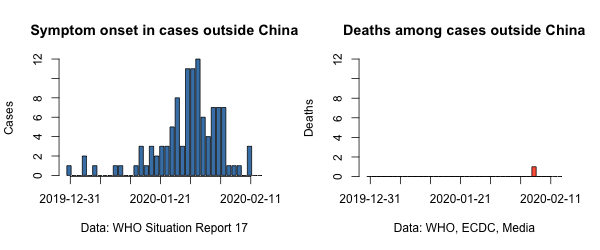
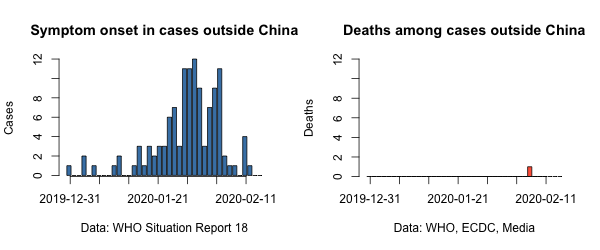
Update with WHO Situation Report 18

diff --git a/README.md b/README.md
@@ -1,10 +1,10 @@
 # Estimating case fatality ratio of 2019-nCoV from observed cases outside China
 
-*Updated report: 6 February 2020*
+*Updated report: 7 February 2020*
 
 Christian L. Althaus (christian.althaus@ispm.unibe.ch), Institute of Social and Preventive Medicine, University of Bern, Bern, Switzerland
 
-**Summary: We provide a preliminary estimate of the case fatality ratio (CFR) of 2019-nCoV at 2.0% (95% confidence interval: 0.1%-8.8%). While there remains considerable uncertainty around this estimate (n = 1!), CFR is arguably higher than what is typically observed for seasonal influenza, but lower than what was observed for SARS-CoV or MERS-CoV.**
+**Summary: We provide a preliminary estimate of the case fatality ratio (CFR) of 2019-nCoV at 1.7% (95% confidence interval: 0.1%-7.5%). While there remains considerable uncertainty around this estimate (n = 1!), CFR is arguably higher than what is typically observed for seasonal influenza, but lower than what was observed for SARS-CoV or MERS-CoV.**
 
 While the basic reproduction number of the 2019-nCoV epidemic in China [has been estimated](https://github.com/jriou/wcov) at 2.2 (90% high density interval: 1.4-3.8) (1,2), there remains considerable uncertainty regarding the case fatality ratio (CFR). To date, naive estimates of CFR from the reported numbers of confirmed cases and deaths are difficult to interpret due to possible biases in observed cases and the right-censoring of cases with respect to the time delay from illness onset to death (3).
 
@@ -12,7 +12,7 @@ We argue that reported 2019-nCoV cases and deaths outside China are less prone t
 
 ![](figures/ncov_cases.png)
 
-**Figure 1. Reported 2019-nCoV cases outside China by onset of symptoms and time of death.** The WHO [Novel Coronavirus(2019-nCoV) Situation Report - 17](https://www.who.int/emergencies/diseases/novel-coronavirus-2019/situation-reports) reports onset of symptoms for 109 cases (out of a total of 216 cases). The first death outside China has been reported by WHO, [ECDC](https://www.ecdc.europa.eu/en/novel-coronavirus-china) and [international media](https://www.theguardian.com/global-development/2020/feb/02/coronavirus-deaths-hong-kong-health-workers-to-strike-china-border-).
+**Figure 1. Reported 2019-nCoV cases outside China by onset of symptoms and time of death.** The WHO [Novel Coronavirus(2019-nCoV) Situation Report - 18](https://www.who.int/emergencies/diseases/novel-coronavirus-2019/situation-reports) reports onset of symptoms for 121 cases (out of a total of 216 cases). The first death outside China has been reported by WHO, [ECDC](https://www.ecdc.europa.eu/en/novel-coronavirus-china) and [international media](https://www.theguardian.com/global-development/2020/feb/02/coronavirus-deaths-hong-kong-health-workers-to-strike-china-border-).
 
 First, we collect 2019-nCoV cases and deaths outside China from [WHO](https://www.who.int/emergencies/diseases/novel-coronavirus-2019/situation-reports/), [ECDC](https://www.ecdc.europa.eu/en/novel-coronavirus-china) and [international media](https://www.theguardian.com/global-development/2020/feb/02/coronavirus-deaths-hong-kong-health-workers-to-strike-china-border-) (Figure 1). We then model the expected incidence of death due 2019-nCoV given the CFR. To this end, we assume that the time from onset to death follows a gamma distribution with a mean of 15.3 days and a shape parameter of 5.05 (Figure 2) (4). Finally, we use a maximum-likelihood framework to estimate CFR by fitting the model to the data assuming the observed numbers of deaths are Poisson distributed (see `R` code file [`ncov_cfr.R`](ncov_cfr.R)).
 
@@ -20,7 +20,7 @@ First, we collect 2019-nCoV cases and deaths outside China from [WHO](https://ww
 
 **Figure 2. Probability distribution of time from onset of 2019-nCoV symptoms to death.** The distribution is based on the estimates by Linton et al. (3).
 
-We estimate the CFR of 2019-nCoV at 2.0% (95% confidence interval: 0.1%-8.8%). Due to the observation of only one death outside China, the uncertainty around this estimate remains wide. We expect future estimates to become more precise with higher numbers of cases and deaths outside China (Figure 3). Furthermore, the estimate could represent an upper bound because information on date of onset is not available for all reported cases and asymptomatic cases are not included. It is also important to note that the fatal case in Manila was [co-infected with *Streptococcus pneumoniae* and *influenza B virus*](https://twitter.com/joel_mossong/status/1223989493176459266?s=20).
+We estimate the CFR of 2019-nCoV at 1.7% (95% confidence interval: 0.1%-7.5%). Due to the observation of only one death outside China, the uncertainty around this estimate remains wide. We expect future estimates to become more precise with higher numbers of cases and deaths outside China (Figure 3). Furthermore, the estimate could represent an upper bound because information on date of onset is not available for all reported cases and asymptomatic cases are not included. It is also important to note that the fatal case in Manila was [co-infected with *Streptococcus pneumoniae* and *influenza B virus*](https://twitter.com/joel_mossong/status/1223989493176459266?s=20).
 
 ![](figures/ncov_cfr.png)
 
